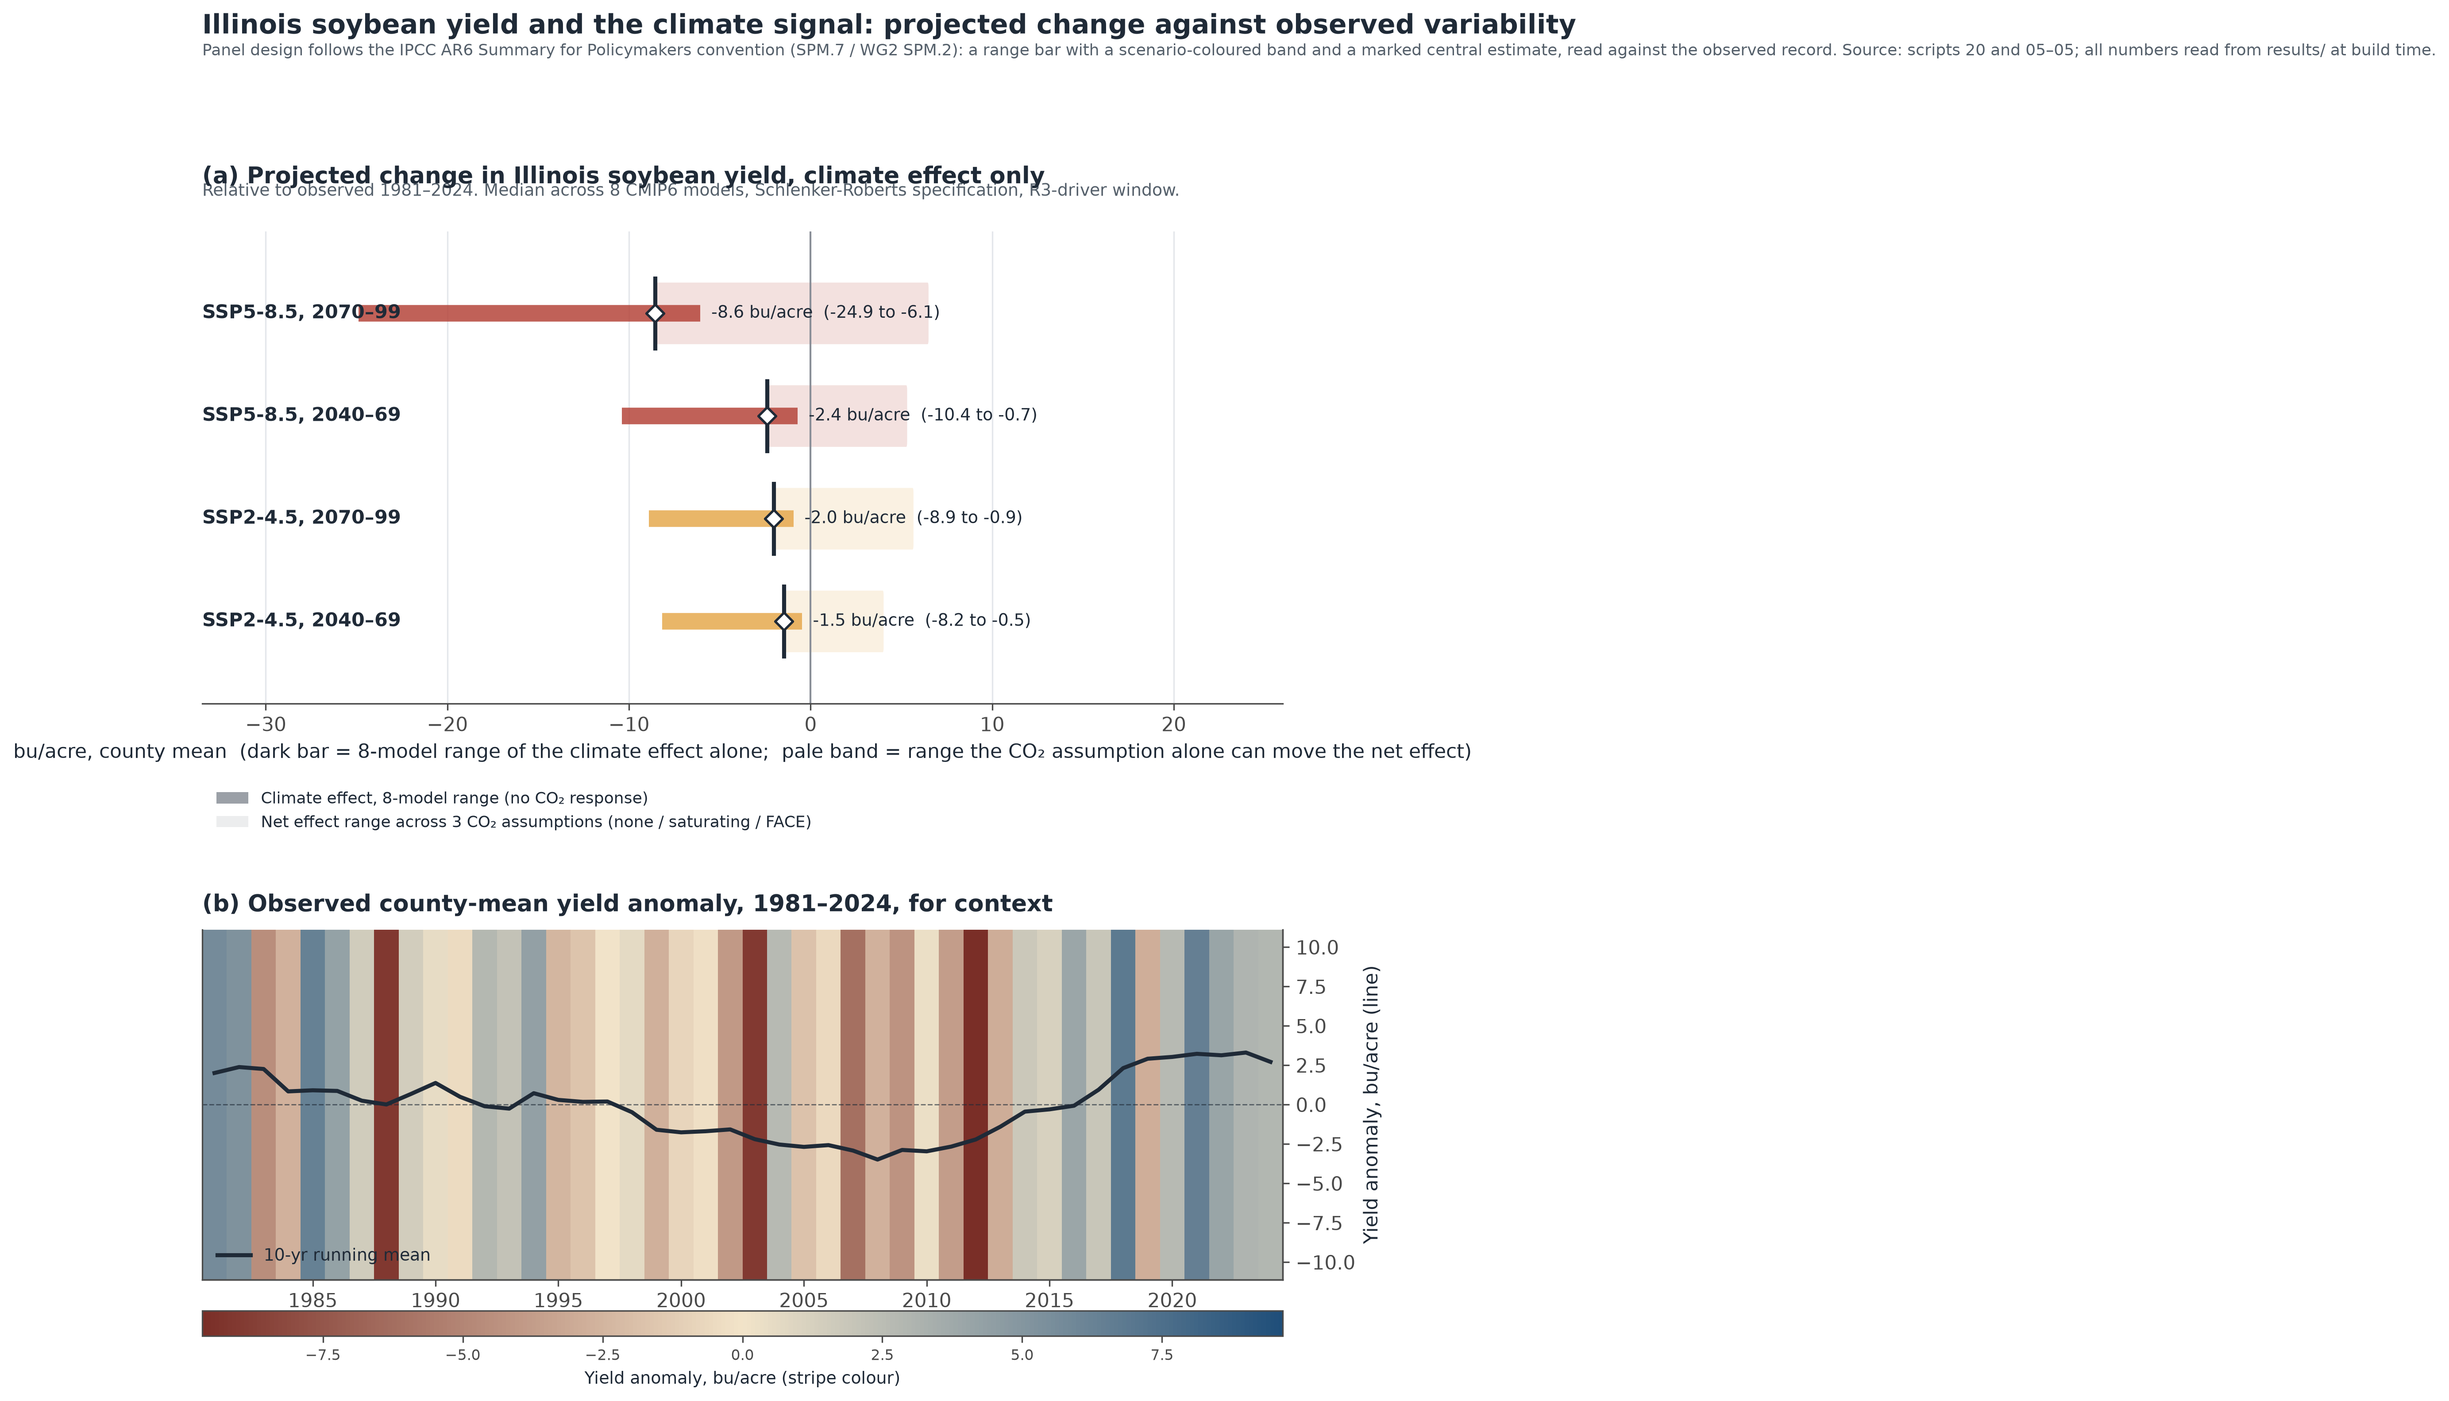
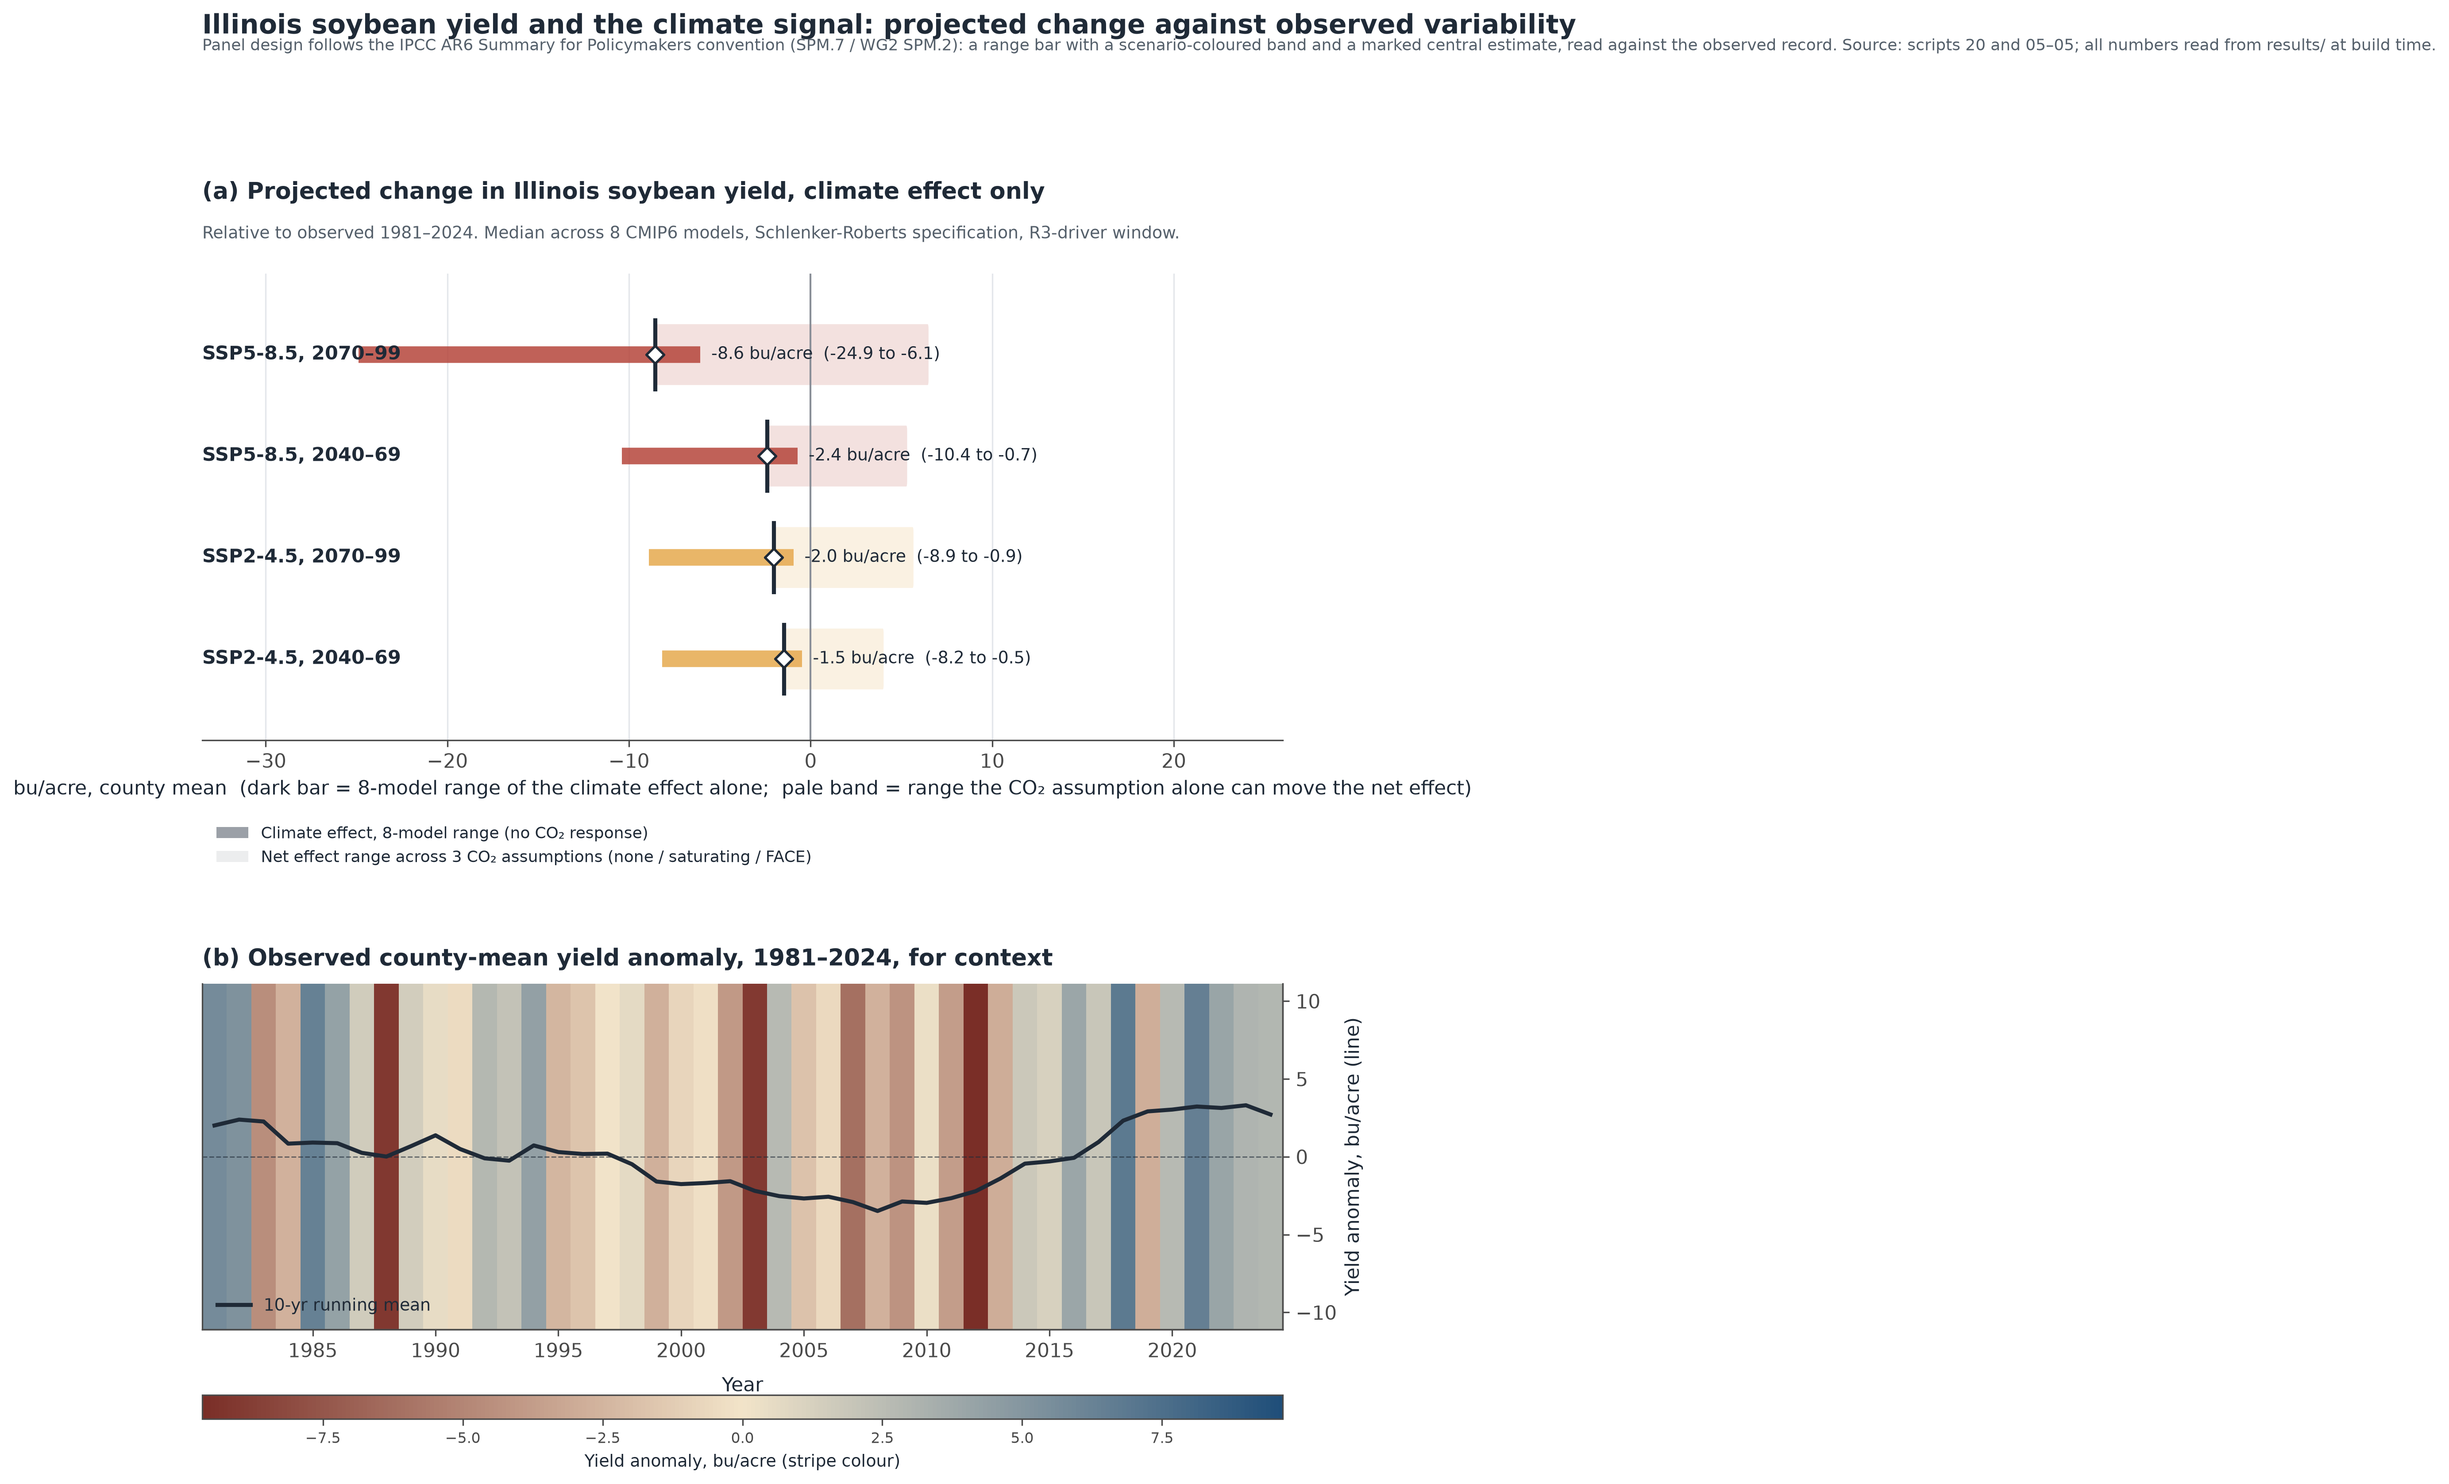
Fix overlapping title/subtitle text in fig34 (IPCC-style summary)
Panel (a)'s heading and subtitle were rendering on top of each other. Rebuilt
as two separate stacked text objects with enough vertical clearance, and gave
the figure more top/bottom margin throughout.

diff --git a/scripts/28_ipcc_style_summary.py b/scripts/28_ipcc_style_summary.py
@@ -56,13 +56,16 @@ plt.rcParams.update({
     "ytick.color": "#4A4A4A",
 })
 
-fig = plt.figure(figsize=(10.5, 10.6), dpi=300)
-gs = fig.add_gridspec(2, 1, height_ratios=[1.35, 1], hspace=0.55, top=0.84, bottom=0.095)
+fig = plt.figure(figsize=(10.5, 11.2), dpi=300)
+gs = fig.add_gridspec(2, 1, height_ratios=[1.35, 1], hspace=0.60, top=0.80, bottom=0.09)
 
 # =============================================================== Panel (a) ==========
 ax = fig.add_subplot(gs[0])
-ax.set_title("(a) Projected change in Illinois soybean yield, climate effect only",
-             loc="left", fontsize=12.5, fontweight="bold", pad=26)
+# Built as two stacked text objects (not ax.set_title + a second line) so the bold heading
+# and the grey subtitle can use different sizes/weights without matplotlib's title linespacing
+# fighting the axes above it.
+ax.text(0, 1.16, "(a) Projected change in Illinois soybean yield, climate effect only",
+        transform=ax.transAxes, fontsize=12.5, fontweight="bold", color="#1F2A37")
 ax.text(0, 1.075, "Relative to observed 1981–2024. Median across 8 CMIP6 models, Schlenker-Roberts "
                    "specification, R3-driver window.",
         transform=ax.transAxes, fontsize=9, color="#55606B")
@@ -128,21 +131,21 @@ ax3.set_ylim(-vmax * 1.15, vmax * 1.15)
 ax2.set_ylim(0, 1)
 ax2.set_yticks([])
 ax2.set_xlim(years.min() - 0.5, years.max() + 0.5)
-ax2.set_xlabel("Year")
+ax2.set_xlabel("Year", labelpad=8)
 for s in ("top", "left"):
     ax2.spines[s].set_visible(False)
 ax3.spines["top"].set_visible(False)
 ax3.legend(loc="lower left", frameon=False, fontsize=9)
 
 sm = plt.cm.ScalarMappable(cmap=cmap, norm=plt.Normalize(-vmax, vmax))
-cax = fig.add_axes([0.125, 0.055, 0.775, 0.018])
+cax = fig.add_axes([0.125, 0.030, 0.775, 0.016])
 cb = fig.colorbar(sm, cax=cax, orientation="horizontal")
 cb.set_label("Yield anomaly, bu/acre (stripe colour)", fontsize=9)
 cb.ax.tick_params(labelsize=8)
 
 fig.suptitle("Illinois soybean yield and the climate signal: projected change against observed variability",
-             fontsize=14.5, fontweight="bold", y=0.995, x=0.125, ha="left")
-fig.text(0.125, 0.965,
+             fontsize=14.5, fontweight="bold", y=0.975, x=0.125, ha="left")
+fig.text(0.125, 0.950,
           "Panel design follows the IPCC AR6 Summary for Policymakers convention (SPM.7 / WG2 SPM.2): "
           "a range bar with a scenario-coloured band and a marked central estimate, read against the observed "
           "record. Source: scripts 20 and 05–05; all numbers read from results/ at build time.",
